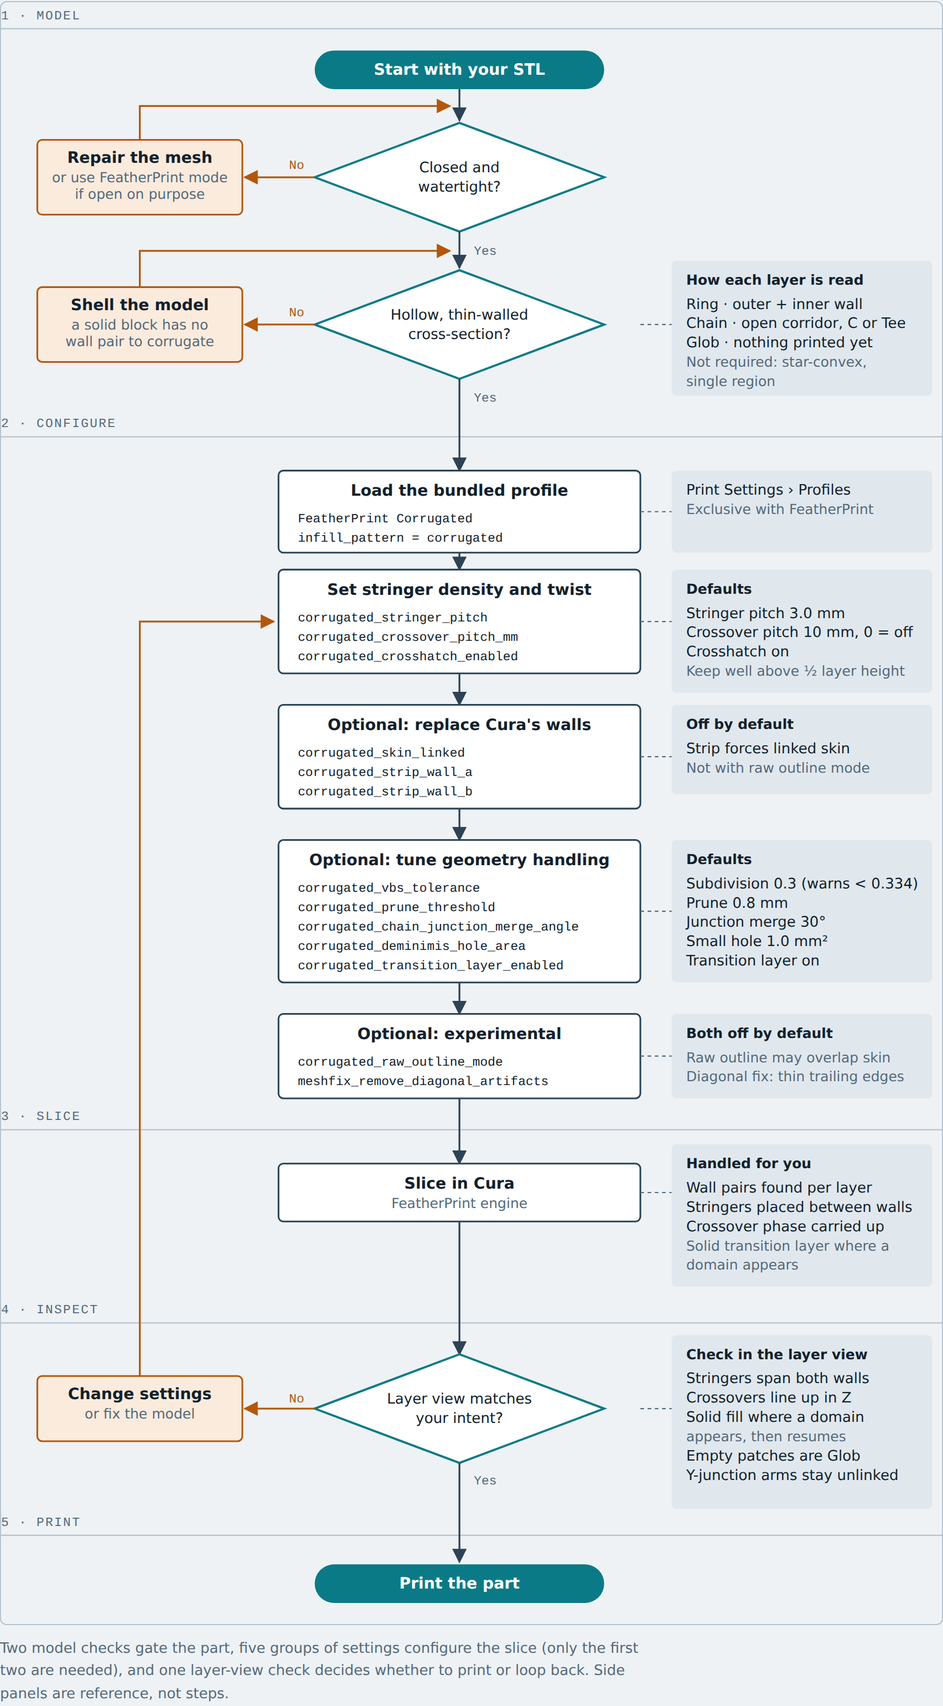
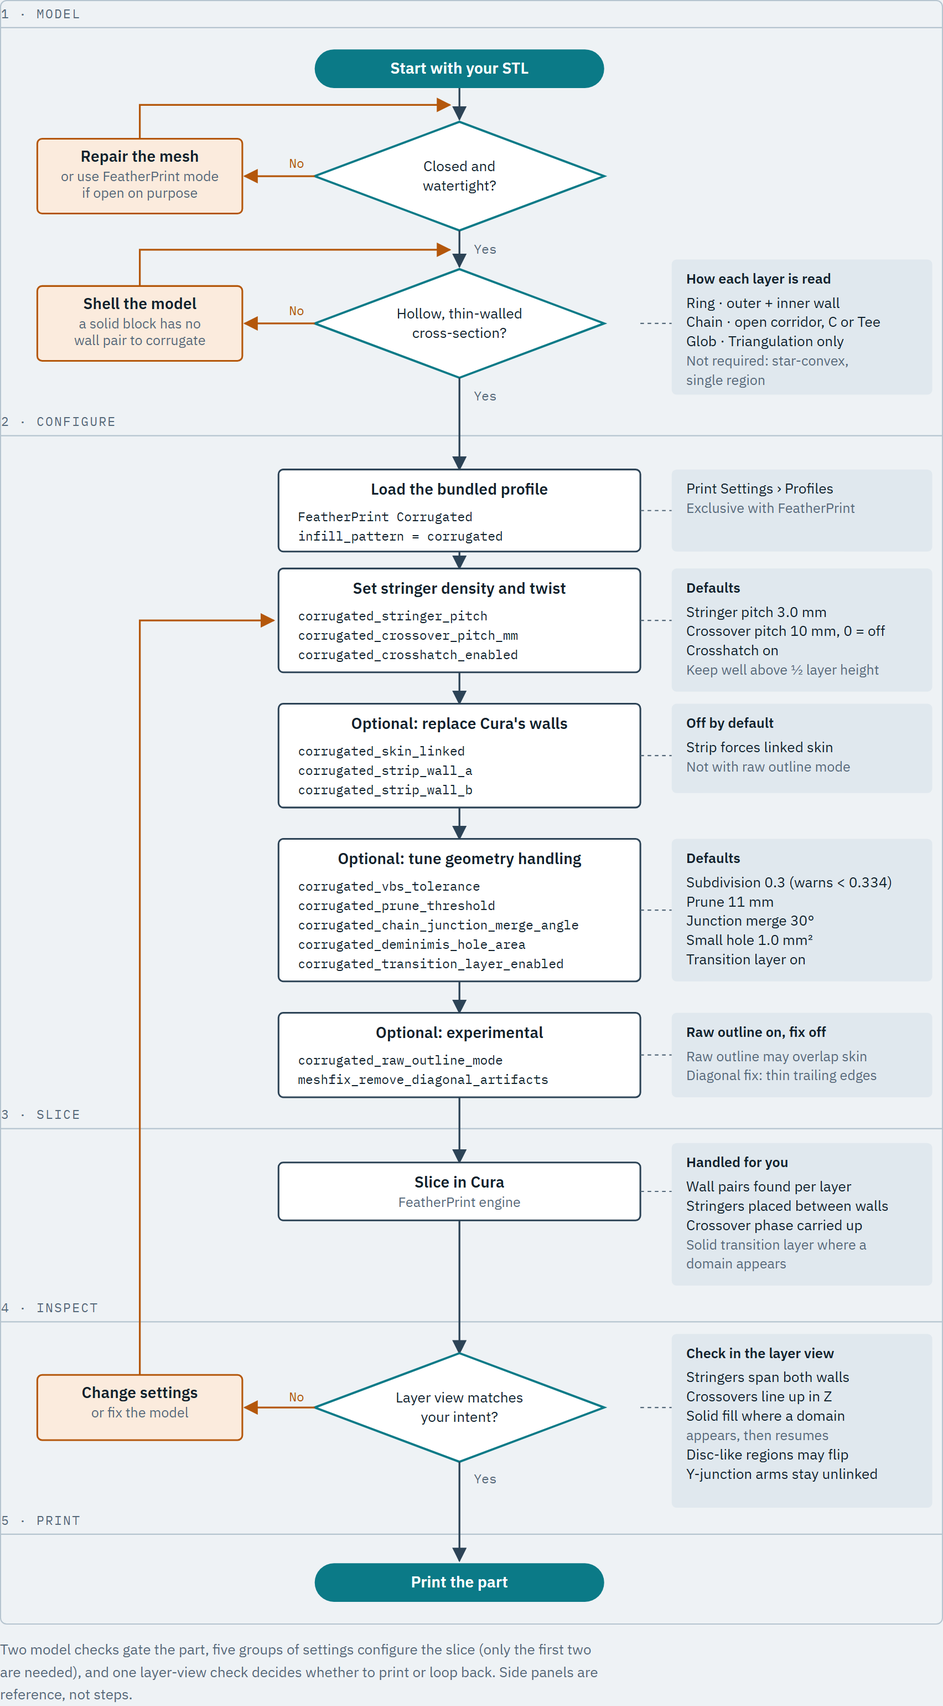
User Manual 0.3: update for v1.1.1 and spec REV 4.14
Covers upgrading from earlier versions, the OML size change, the new
Corrugated defaults and the setting-proportion limits. Workflow diagrams
re-rendered to match.

diff --git a/FeatherPrint User Manual/diagrams/corrugated-workflow.html b/FeatherPrint User Manual/diagrams/corrugated-workflow.html
@@ -106,7 +106,7 @@ text{font-family:var(--sans);fill:var(--ink);font-size:12px}
 <text x="568" y="234" class="pt">How each layer is read</text>
 <text x="568" y="254" class="pl">Ring · outer + inner wall</text>
 <text x="568" y="270" class="pl">Chain · open corridor, C or Tee</text>
-<text x="568" y="286" class="pl">Glob · nothing printed yet</text>
+<text x="568" y="286" class="pl">Glob · Triangulation only</text>
 <text x="568" y="302" class="s">Not required: star-convex,</text>
 <text x="568" y="318" class="s">single region</text>
 <text x="392" y="331" class="yn">Yes</text>
@@ -157,7 +157,7 @@ text{font-family:var(--sans);fill:var(--ink);font-size:12px}
 <rect x="556" y="694" width="216" height="118" rx="4" class="panel"/>
 <text x="568" y="714" class="pt">Defaults</text>
 <text x="568" y="734" class="pl">Subdivision 0.3 (warns < 0.334)</text>
-<text x="568" y="750" class="pl">Prune 0.8 mm</text>
+<text x="568" y="750" class="pl">Prune 11 mm</text>
 <text x="568" y="766" class="pl">Junction merge 30°</text>
 <text x="568" y="782" class="pl">Small hole 1.0 mm²</text>
 <text x="568" y="798" class="pl">Transition layer on</text>
@@ -168,7 +168,7 @@ text{font-family:var(--sans);fill:var(--ink);font-size:12px}
 <text x="246" y="897" class="m">meshfix_remove_diagonal_artifacts</text>
 <line x1="530" y1="873" x2="556" y2="873" class="tie"/>
 <rect x="556" y="838" width="216" height="70" rx="4" class="panel"/>
-<text x="568" y="858" class="pt">Both off by default</text>
+<text x="568" y="858" class="pt">Raw outline on, fix off</text>
 <text x="568" y="878" class="s">Raw outline may overlap skin</text>
 <text x="568" y="894" class="s">Diagonal fix: thin trailing edges</text>
 <text x="0" y="926" class="lab">3 · SLICE</text>
@@ -204,7 +204,7 @@ text{font-family:var(--sans);fill:var(--ink);font-size:12px}
 <text x="568" y="1160" class="pl">Crossovers line up in Z</text>
 <text x="568" y="1176" class="pl">Solid fill where a domain</text>
 <text x="568" y="1192" class="s">appears, then resumes</text>
-<text x="568" y="1208" class="pl">Empty patches are Glob</text>
+<text x="568" y="1208" class="pl">Disc-like regions may flip</text>
 <text x="568" y="1224" class="pl">Y-junction arms stay unlinked</text>
 <text x="392" y="1228" class="yn">Yes</text>
 <text x="0" y="1262" class="lab">5 · PRINT</text>
@@ -217,5 +217,5 @@ text{font-family:var(--sans);fill:var(--ink);font-size:12px}
     <figcaption>Two model checks gate the part, five groups of settings configure the slice (only the first two are needed), and one layer-view check decides whether to print or loop back. Side panels are reference, not steps.</figcaption>
   </figure>
 
-  <p class="foot">Draft for the FeatherPrint manual, from the Corrugated specification REV 3.8 (18 September 2026) and the Corrugated settings file. Corrugated is a separate infill pattern from FeatherPrint: a mesh uses one or the other. Defaults are first-pass values not yet validated across a wide range of parts. Glob regions currently print no corrugation, and a Y-junction with no straight pass-through still corrugates each arm independently.</p>
+  <p class="foot">Draft for the FeatherPrint manual, from the Corrugated specification REV 3.8 (18 September 2026) and the Corrugated settings file. Corrugated is a separate infill pattern from FeatherPrint: a mesh uses one or the other. Defaults are first-pass values not yet validated across a wide range of parts. Medial Axis decomposition (the default since v1.1.0) forms no Globs; with Triangulation, Glob regions print no corrugation. A Y-junction with no straight pass-through still corrugates each arm independently.</p>
 </div>

diff --git a/FeatherPrint User Manual/diagrams/featherprint-workflow.html b/FeatherPrint User Manual/diagrams/featherprint-workflow.html
@@ -183,5 +183,5 @@ text{font-family:var(--sans);fill:var(--ink);font-size:12px}
     <figcaption>One check gates the model, two groups of settings configure the slice, and one preview check decides whether to print or loop back. Side panels are reference, not steps.</figcaption>
   </figure>
 
-  <p class="foot">Draft for the FeatherPrint manual, derived from the technical specification REV 4.12 (18 September 2026), for FeatherPrint v1.0.0.</p>
+  <p class="foot">Draft for the FeatherPrint manual, derived from the technical specification REV 4.14 (7 October 2026), for FeatherPrint v1.1.1.</p>
 </div>

diff --git a/FeatherPrint User Manual/FeatherPrint User Manual.md b/FeatherPrint User Manual/FeatherPrint User Manual.md
@@ -1,10 +1,10 @@
 # FeatherPrint User Manual
 
-*Manual version 0.2 draft, for FeatherPrint v1.0.0 (spec REV 4.12), 19 September 2026.*
+*Manual version 0.3 draft, for FeatherPrint v1.1.1 (spec REV 4.14), 7 October 2026.*
 
 ## About this manual
 
-This manual shows you how to slice lightweight, hollow prints with FeatherPrint v1.0.0, a modified CuraEngine for UltiMaker Cura 5.13.x on Windows. It is written for makers and designers who model in CAD, export an STL and slice in Cura, so it explains what to do and what to expect rather than how the algorithms work.
+This manual shows you how to slice lightweight, hollow prints with FeatherPrint v1.1.1, a modified CuraEngine for UltiMaker Cura 5.13.x on Windows. It is written for makers and designers who model in CAD, export an STL and slice in Cura, so it explains what to do and what to expect rather than how the algorithms work.
 
 FeatherPrint adds two infill generators, chosen with Cura's Infill Pattern setting. **FeatherPrint** builds a single-line-width skin braced by a helical net of tube-like stringers, for ultralight aerodynamic parts such as drones, model aircraft, wind turbines and hydrodynamic surfaces. **Corrugated** fills the gap between the inner and outer walls of an ordinary shelled part with corrugated support, in place of conventional infill.
 
@@ -29,7 +29,7 @@ If you are unsure, check whether the part has wall thickness you designed in. If
 
 FeatherPrint installs over an existing Cura with one Windows installer, and you can remove it later to restore Cura's original engine. It needs Windows 10 or later and UltiMaker Cura 5.13.x already installed.
 
-1. Download `FeatherPrint-1.0.0-Windows-x64-Setup.exe` from the [v1.0.0 release page](https://github.com/Rszalay/FeatherPrint/releases/tag/v1.0.0).
+1. Download `FeatherPrint-1.1.1-Windows-x64-Setup.exe` from the [v1.1.1 release page](https://github.com/Rszalay/FeatherPrint/releases/tag/v1.1.1).
 2. Right-click the file and choose Run as administrator.
 3. Follow the installer. It finds your Cura 5.13.x installation, backs up the original engine files, deploys FeatherPrint, and installs the bundled "FeatherPrint" and "FeatherPrint Corrugated" print profiles.
 4. Start Cura and open the Infill Pattern setting. You should now see FeatherPrint and Corrugated in the list.
@@ -37,6 +37,13 @@ FeatherPrint installs over an existing Cura with one Windows installer, and you 
 ![Cura print settings with the three-bar menu open and All selected, which reveals the FeatherPrint and Corrugated categories](images/featherprint-manual-01.png)
 
 To uninstall, run Uninstall FeatherPrint from Windows Add or Remove Programs. Your original Cura engine files are restored automatically.
+
+### Upgrading from an earlier version
+
+Run the new installer over the old one. It refreshes the bundled profiles, so reselect them in Cura afterwards. Two changes may affect parts you have already designed or tuned:
+
+- **v1.1.1: FeatherPrint parts print one line width smaller across.** Earlier versions centred the outer wall on the model surface, so half of it hung outside and every part came out one line width oversize. The outer face of the wall now sits on the model surface, the same as Cura's other patterns, so FeatherPrint and Corrugated parts of the same model now match. If you scaled models up or down to compensate, remove that scaling.
+- **v1.1.0: Corrugated uses a new default layout (Medial Axis and Harmonic).** Stringers jump around much less from layer to layer, Glob regions (which print no corrugation) no longer occur, and slicing is about four times faster. To get the old behaviour back, set Corrugated Decomposition to Triangulation and Corrugated Wall Pairing to Arc Length.
 
 ### Where the settings live
 
@@ -51,7 +58,7 @@ A FeatherPrint print takes five steps: check the model, select the pattern and t
 ![FeatherPrint workflow chart: model, configure, slice, inspect and print, with loops back to the settings or the model](diagrams/featherprint-workflow.png)
 
 1. **Model.** Confirm the mesh is watertight, or open only where you meant it to be. Note any open top or slots, because they decide which end features you will get. See Preparing your model.
-2. **Configure.** Set Infill Pattern to FeatherPrint. Cura then applies the rest of the required setup for you: Wall Line Count 1, Top Layers 0, Bottom Layers 0 and Z Seam Alignment set to Sharpest Corner. Top and Bottom Layers of 0 suit an open shell, but you can raise them if you want solid caps. Use a 0.2 mm layer height and LW-PLA or PETG, then adjust the FeatherPrint settings if you need to. See the settings reference.
+2. **Configure.** Either select the bundled "FeatherPrint" profile under Print Settings, then Profiles, or set Infill Pattern to FeatherPrint on your own profile. Choosing the pattern sets Wall Line Count 1, Top Layers 0 and Bottom Layers 0 for you, and FeatherPrint always prints walls from the inside out. Top and Bottom Layers of 0 suit an open shell, but you can raise them if you want solid caps. Use a 0.2 mm layer height and LW-PLA or PETG, then adjust the FeatherPrint settings if you need to. See the settings reference.
 3. **Slice.** Slice as usual. FeatherPrint works out the stringer helices, the end features and every place two features meet.
 4. **Inspect.** Step through the layer view before you print. See Reading the layer view.
 5. **Print.** If the preview matches your intent, print. If not, change the settings or the model and slice again.
@@ -96,7 +103,7 @@ Why: features are placed by distance along the outline rather than by measuring 
 
 ## FeatherPrint: settings reference
 
-FeatherPrint has a set of tuning settings of its own, and four Cura settings it sets for you when you choose the pattern. In most prints you only change the helix angle or stringer count; the later rows switch optional features on or off and tune them.
+FeatherPrint has a set of tuning settings of its own, and a few Cura settings it sets for you when you choose the pattern. In most prints you only change the helix angle or stringer count; the later rows switch optional features on or off and tune them.
 
 ### FeatherPrint settings
 
@@ -118,18 +125,22 @@ FeatherPrint has a set of tuning settings of its own, and four Cura settings it 
 | `featherprint_feature_depth` | 2.5 | line widths | How far stringers, lacings and flares reach inward from the skin. One setting drives all of them, so they stay in step. |
 | `featherprint_stringer_width` | 1.5 | line widths | Width of a stringer trace. |
 | `featherprint_lacing_width` | 3.0 | line widths | Width of a lacing, where two stringers meet. |
-| `featherprint_force_zhop_height` | 2.0 | mm | Z-hop height used when the nozzle travels between FeatherPrint's small separate features, such as end loops and collars, so it does not drag the wall it just printed. Not yet validated on printed parts. |
+| `featherprint_force_zhop_height` | 2.0 | mm | Z-hop height used when the nozzle travels between FeatherPrint's small separate features, such as end loops and collars, so it does not drag the wall it just printed. Only applies when Cura's Z Hop When Retracted is on. Not yet validated on printed parts. |
+
+`featherprint_curvature_k_ref` also appears in the list but has no effect; it belongs to a feature that was withdrawn.
+
+**Keep these settings in proportion.** Feature Depth should be at least Stringer Width + 0.5, and Lacing Width at least Feature Depth + 1. Cura does not check either. If Lacing Width is too small, each lacing doubles back on itself slightly. The defaults (Lacing Width 3.0, Feature Depth 2.5) are just below that limit, so use 3.5 or more, or start from the bundled profile.
 
 ### Set for you
 
-| Setting | Value |
-| --- | --- |
-| Wall Line Count | 1 |
-| Top Layers | 0 |
-| Bottom Layers | 0 |
-| Z Seam Alignment | Sharpest Corner |
+| Setting | Value | Can you change it? |
+| --- | --- | --- |
+| Wall Line Count | 1 | Leave it at 1. FeatherPrint draws its own walls, and at 0 none are printed |
+| Top Layers | 0 | Yes, raise it for solid caps |
+| Bottom Layers | 0 | Yes, raise it for solid bases |
+| Wall printing order | Inside to outside, outer wall last | No, FeatherPrint always forces this |
 
-Recommended alongside these: a 0.2 mm layer height, and LW-PLA or PETG.
+The bundled FeatherPrint profile also sets Z Seam Alignment to Sharpest Corner. Recommended alongside these: a 0.2 mm layer height, and LW-PLA or PETG.
 
 **Why:** with no top or bottom layers, a FeatherPrint part simply stops at its last skin layer. That is why an open top gets a Flange, which supplies the flat surface a cap or mating part can glue to.
 
@@ -141,7 +152,7 @@ A FeatherPrint part is built from several print features, plus collision feature
 
 | Feature | Where it appears | What it is |
 | --- | --- | --- |
-| Skin | The whole surface | A stack of single-line-width extrusions tracing the outer perimeter |
+| Skin | The whole surface | A stack of single-line-width extrusions whose outer face lies on the model surface |
 | Stringer | Spiralling up the surface | A tube made of stacked loops that reach inward toward the centre. Two counter-rotating helices form a diamond net |
 | Former | Where stringer helices cross | A local thickening of the skin, stepped out half a line width per layer, that acts as a transverse brace. |
 | Whip | Along a slot or hole in the side wall | The skin ends in a small closed loop on every layer, so the opening has no loose filament end |
@@ -202,11 +213,11 @@ On every layer, Corrugated sorts the space between walls into three kinds of reg
 | --- | --- | --- |
 | Ring | A tube or airfoil cross-section: one outer contour with one inner contour nested inside | Corrugation all the way around the gap |
 | Chain | An open corridor between two walls, such as a C-shape, a rib, or a Tee where one corridor meets another | Corrugation along the corridor, from one end to the other |
-| Glob | A region the slicer cannot reduce to a Ring or a Chain | Nothing yet; the corrugation is left out of it |
+| Glob | A region the slicer cannot reduce to a Ring or a Chain (Triangulation decomposition only) | Nothing yet; the corrugation is left out of it |
 
 Your model does not need to have one region per layer. Where corridors meet in a Tee, the straight-through pair is merged into one continuous corridor. A junction with no straight-through pair still works, but each arm is corrugated separately.
 
-For most parts, Globs are not expected to form. They mainly result from complex junctions that cannot be resolved, or from applying corrugation to shapes with a low aspect ratio, which is not what Corrugated is for.
+With the default Medial Axis decomposition, Globs do not form: a region with no clear corridor, such as a disc or a square, becomes one Chain along its longest axis. That axis can change direction from layer to layer on such shapes, so they remain the weakest case. With the older Triangulation decomposition, Globs mainly come from complex junctions or low-aspect-ratio shapes, which is not what Corrugated is for.
 
 ### Small holes
 
@@ -220,7 +231,7 @@ The shape of a corridor matters more than the exact gap width. Wall gaps of 5 to
 
 ## Corrugated: settings reference
 
-Corrugated adds twelve settings in their own Corrugated category, all active only when Infill Pattern is Corrugated. Start from the bundled profile; the two settings that most change the result are stringer pitch and crossover pitch.
+Corrugated adds fourteen settings in their own Corrugated category, all active only when Infill Pattern is Corrugated. Start from the bundled profile; the two settings that most change the result are stringer pitch and crossover pitch.
 
 ### Density and twist
 
@@ -244,7 +255,9 @@ Stripping a wall does not work together with Raw Outline Mode; turn that off to 
 
 | Setting | Default | Units | What it controls |
 | --- | --- | --- | --- |
-| `corrugated_vbs_tolerance` | 0.3 | fraction | How finely long contour edges are split. Values below about 0.334 can make irregular shapes over-subdivide, and Cura warns below that. |
+| `corrugated_decomposition` | Medial Axis | | How each layer is split into regions. Medial Axis follows the centre line between the walls and has no Globs; Triangulation is the older method. |
+| `corrugated_wall_pairing` | Harmonic | | How stringer ends are matched between the two walls of a region. Harmonic is the default; Arc Length (the original method) and Aligned are alternatives. |
+| `corrugated_vbs_tolerance` | 0.3 | fraction | Triangulation decomposition only. How finely long contour edges are split. Values below about 0.334 can make irregular shapes over-subdivide, and Cura warns below that. |
 | `corrugated_prune_threshold` | 11 | mm | Short side-arms shorter than this are folded into a neighbouring wall. Too large a value can absorb real short features. |
 | `corrugated_chain_junction_merge_angle` | 30 | ° | How far from a straight 180° two corridors may bend at a junction and still be merged into one continuous corridor. |
 | `corrugated_deminimis_hole_area` | 1.0 | mm² | Holes smaller than this are ignored when deciding a region's shape. Experimental. |
@@ -280,7 +293,8 @@ What a good Corrugated slice shows: normal walls, stringers spanning the gap bet
 
 | You see | Likely cause | What to do |
 | --- | --- | --- |
-| An empty patch with no corrugation | A Glob region, which is not yet filled. Usually a complex junction or a low-aspect-ratio shape | Expected. Reshape the part, or accept the gap |
+| An empty patch with no corrugation | A Glob region (Triangulation decomposition only), which is not yet filled | Switch Corrugated Decomposition back to Medial Axis, or reshape the part |
+| Stringers changing direction between layers in a disc- or square-shaped region | The region has no clear corridor, so its single Chain follows whichever axis is longest on each layer | Expected in this release. Lengthen the region in one direction if you can |
 | A full-density layer partway up | A transition layer where the number of regions changed | Expected. Turn off `corrugated_transition_layer_enabled` only if you accept the risk |
 | A stringer pattern that looks static or jittery | Crossover pitch too close to the layer height | Raise `corrugated_crossover_pitch_mm` well above half a layer height |
 | Strip Wall A or B has no effect | Raw Outline Mode is on | Turn off `corrugated_raw_outline_mode` |
@@ -292,7 +306,7 @@ What a good Corrugated slice shows: normal walls, stringers spanning the gap bet
 
 ## Known limitations in this release
 
-These are the gaps to plan around in v1.0.0; each is a known, deliberate scope boundary rather than a fault in your model.
+These are the gaps to plan around in v1.1.1. Most are deliberate scope boundaries; a few are known faults scheduled for a fix. None is a fault in your model.
 
 ### All modes
 
@@ -303,12 +317,16 @@ These are the gaps to plan around in v1.0.0; each is a known, deliberate scope b
 
 - **A Collar can overhang a hole unsupported.** If Punchout is off but a Collar peaks above a hole, nothing supports the peak; turn Punchout on for such parts. This is scheduled to be corrected.
 - **No cut-back of the skin before an end loop.** A parametric cut-back is reserved for a future release.
-- **Untested**** Z-hop height****.** The hop used between FeatherPrint's small separate features (featherprint_force_zhop_height) has not yet been validated on printed parts.
+- **Untested Z-hop height.** The hop used between FeatherPrint's small separate features (featherprint_force_zhop_height) has not yet been validated on printed parts.
+- **Default lacing proportions.** With the default Lacing Width and Feature Depth, each lacing doubles back slightly. Set Lacing Width to at least Feature Depth + 1, or use the bundled profile.
+- **Layers with several separate islands.** The helix is laid out from the largest island on each layer, so stringers on the smaller islands do not hold the set helix angle.
+- **Holes with no depth.** A hole in a flat top or bottom is left open, but no wall is printed around its edge.
+- **Occasional stray toolpaths.** On rare layers a lacing or flare that lands exactly where the slicer starts its outline can be dropped, doubled, or print an extra lap of the outline. Check the layer view; a fix is scheduled.
 
 ### Corrugated
 
 - **Closed meshes only.** Open meshes are permanently out of scope for this mode; use FeatherPrint.
-- **Glob regions print no corrugation.** They are left empty.
+- **Glob regions print no corrugation** (Triangulation decomposition only). With the default Medial Axis decomposition, regions with no clear corridor (discs, squares) get one Chain whose direction can change between layers.
 - **Three-way junctions without a straight-through pair** are corrugated arm by arm, not as one connected path.
 - **One ring region per layer** is tracked for continuity and linked skin. Several separate corridors per layer are handled.
 - **Stringers are straight.** The planned shaped cross-section, with rising and falling walls between troughs and peaks, is not built yet.
@@ -328,13 +346,14 @@ These are the gaps to plan around in v1.0.0; each is a known, deliberate scope b
 | Crossover | A place where two stringer families cross, or where a Stringer loop closes on itself and lifts to the next layer |
 | Flange | FeatherPrint's thickened, inward-building top layers on a part with an open top |
 | Former | A local thickening of the skin where stringer helices cross, acting as a transverse brace |
-| Glob | In Corrugated, a region that is not a Ring or a Chain. Rare in normal parts, and not yet filled |
+| Glob | In Corrugated with Triangulation decomposition, a region that is not a Ring or a Chain. Not yet filled |
+| Medial axis | The centre line running between a region's walls. Corrugated's default decomposition builds its Rings and Chains from it |
 | Helix angle | The angle between a stringer tube and the skin surface |
 | Layer | One pass of the print head at a fixed height |
 | Line width (w) | The width of one extrusion. FeatherPrint dimensions are multiples of it |
 | Linked skin | In Corrugated, a single continuous path that alternates between the outer and inner wall |
 | Manifold | A closed, watertight mesh in which every edge is shared by exactly two faces |
-| OML | Outer mould line: the outer surface of the model, which FeatherPrint never alters |
+| OML | Outer mould line: the outer surface of the model. FeatherPrint never changes it, and since v1.1.1 the outer face of its wall lies exactly on it |
 | Placket | Where a Collar meets a Whip: the Collar tapers into the open span |
 | Punchout | Optional support printed into a hole so a flat-topped closure can bridge from it |
 | Ring | In Corrugated, one outer contour with one inner contour nested inside it |
@@ -354,3 +373,4 @@ These are the gaps to plan around in v1.0.0; each is a known, deliberate scope b
 | --- | --- | --- | --- |
 | 18 Sep 2026 | 0.1 draft | FeatherPrint v1.0.0 | First draft. Both workflow charts and all screenshots included |
 | 19 Sep 2026 | 0.2 draft | FeatherPrint v1.0.0; spec REV 4.12 | Brought up to date with REV 4.12: star-convex rule removed, Collar, Punchout, Shore, Splay, Placket and new settings added |
+| 7 Oct 2026 | 0.3 draft | FeatherPrint v1.1.1; spec REV 4.14 | Upgrade notes (parts one line width smaller; new Corrugated defaults); bundled FeatherPrint profile; corrected "set for you" list; setting-proportion guidance; Corrugated Decomposition and Wall Pairing settings; Glob behaviour under Medial Axis; new known limitations |
